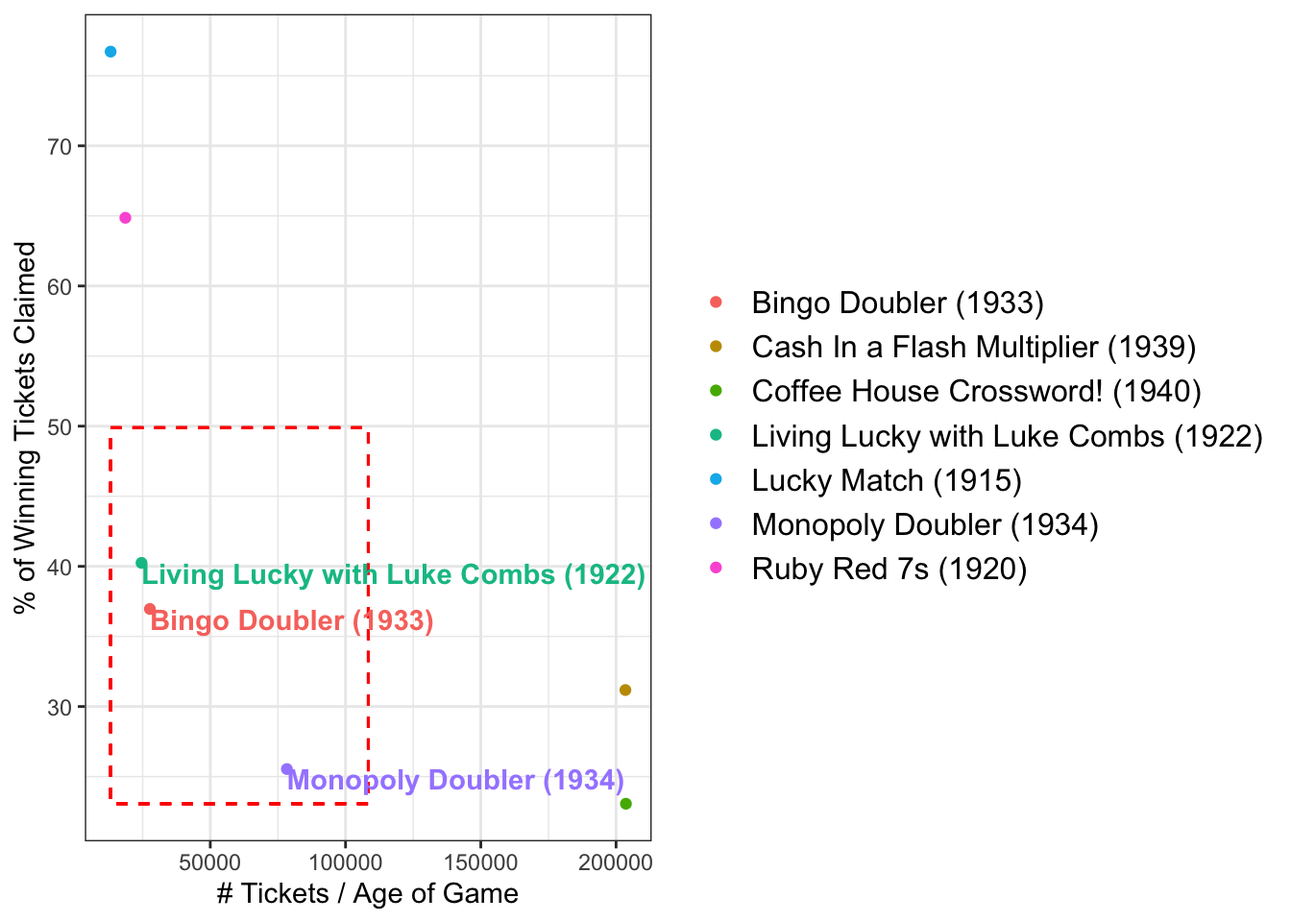
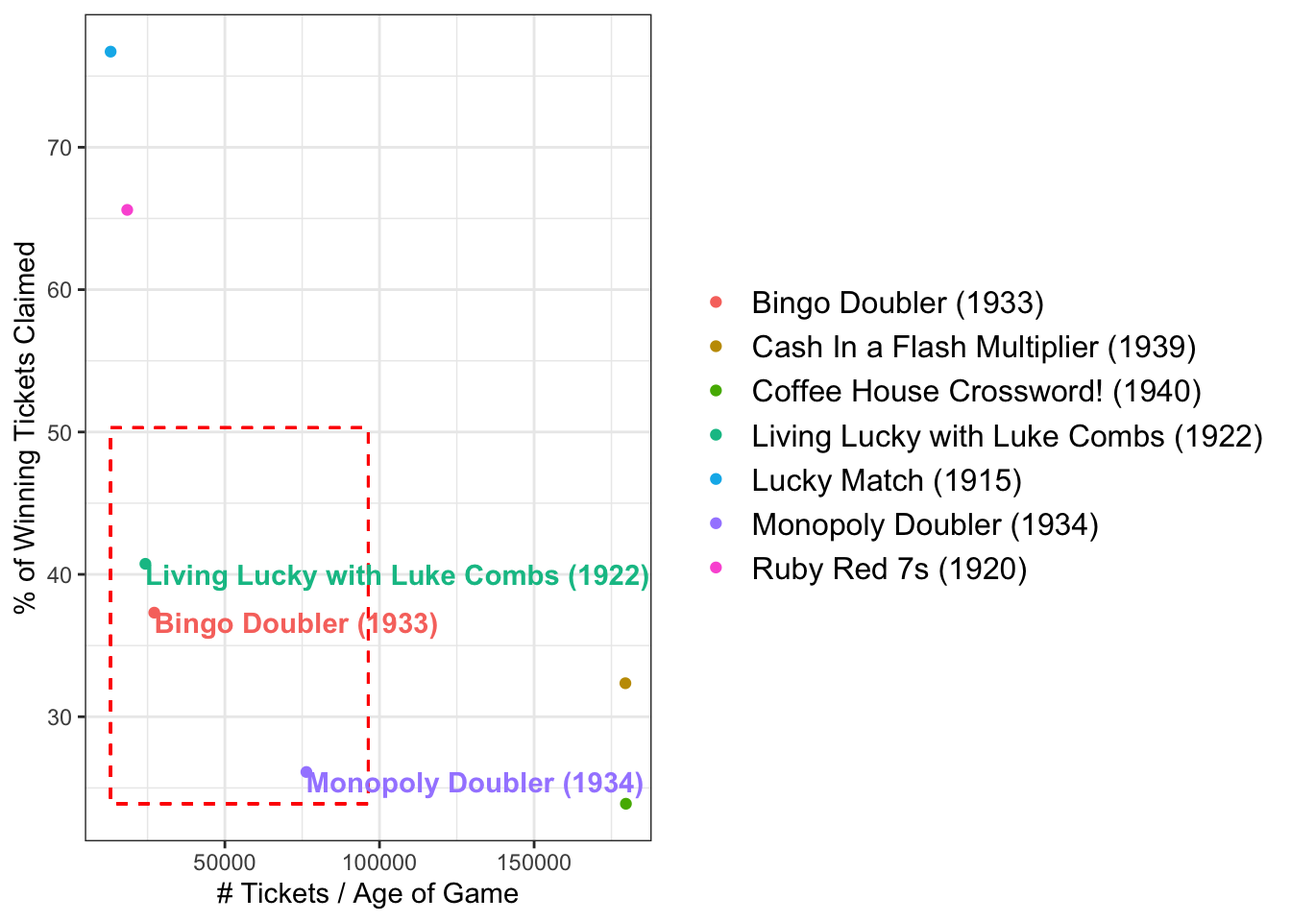
update prizes

diff --git a/docs/All_Games.html b/docs/All_Games.html
@@ -300,32 +300,32 @@ tickets &gt;$500 claimed and remaining</p>
 <div id="overall-odds" class="section level3"
 style="text-align: center">
 <h3 style="text-align: center">Overall Odds</h3>
-<div class="datatables html-widget html-fill-item-overflow-hidden html-fill-item" id="htmlwidget-68294b1f0f73f28966f4" style="width:100%;height:auto;"></div>
-<script type="application/json" data-for="htmlwidget-68294b1f0f73f28966f4">{"x":{"filter":"none","vertical":false,"data":[["1","2","3","4","5","6","7","8","9","10","11","12","13","14","15","16","17","18","19","20","21","22","23","24","25","26","27","28","29","30","31","32","33","34","35","36","37","38","39"],["$50","$50","$20","$20","$20","$20","$10","$10","$10","$10","$10","$10","$3","$5","$3","$3","$3","$5","$5","$5","$3","$3","$3","$2","$2","$5","$3","$3","$3","$5","$5","$3","$1","$1","$3","$2","$20","$5","$20"],["Ca$h (1876)","500X (1813)","Crazy Cash Crossword (1918)","Big Ol' Bens (1943)","$500,000 Payday (1848)","Money Multiplier (1932)","Mystery Box Multi Xword (1925)","$200,000 Platinum (1945)","Dig Dug (1884)","Golden Riches (1841)","Jumbo Bucks (1923)","Lucky Lines Extravaganza (1921)","Crossword Craving (1944)","Coffee House Crossword! (1940)","VIP Crossword (1924)","Lucky Duck Crossword (1899)","Pengwin Crossword (1931)","Cash In a Flash Multiplier (1939)","Lucky Match (1915)","Bingo Doubler (1933)","Treasure Hunt (1935)","Sunny Money (1907)","Lucky Hunt (1889)","Love to Win! (1938)","Winter Blast (1930)","Monopoly Doubler (1934)","Cash Card (1913)","10X Crossword (1911)","Diamond Slingo (1897)","$100,000 Makeover Money (1942)","Living Lucky with Luke Combs (1922)","Scratch Yer Booty Bingo (1909)","Quick 7s (1937)","Cool Cat (1912)","Twisted Bingo (1885)","Sascratch (1919)","Bankroll (1914)","Ruby Red 7s (1920)","$25 Million Big Blowout (1941)"],[2.89,2.89,2.93,3,3,3.01,3.13,3.15,3.18,3.18,3.24,3.3,3.5,3.52,3.52,3.52,3.53,3.6,3.6,3.63,3.64,3.66,3.66,3.69,3.69,3.72,3.72,3.72,3.73,3.76,3.76,3.76,3.78,3.79,3.83,3.87,3.96,4.31,9.48]],"container":"<table class=\"display\">\n  <thead>\n    <tr>\n      <th> <\/th>\n      <th>game_amount<\/th>\n      <th>Game<\/th>\n      <th>overall_odds<\/th>\n    <\/tr>\n  <\/thead>\n<\/table>","options":{"columnDefs":[{"className":"dt-right","targets":3},{"orderable":false,"targets":0}],"order":[],"autoWidth":false,"orderClasses":false}},"evals":[],"jsHooks":[]}</script>
+<div class="datatables html-widget html-fill-item-overflow-hidden html-fill-item" id="htmlwidget-9887985945a5488b1525" style="width:100%;height:auto;"></div>
+<script type="application/json" data-for="htmlwidget-9887985945a5488b1525">{"x":{"filter":"none","vertical":false,"data":[["1","2","3","4","5","6","7","8","9","10","11","12","13","14","15","16","17","18","19","20","21","22","23","24","25","26","27","28","29","30","31","32","33","34","35","36","37","38","39"],["$50","$50","$20","$20","$20","$20","$10","$10","$10","$10","$10","$10","$3","$5","$3","$3","$3","$5","$5","$5","$3","$3","$3","$2","$2","$5","$3","$3","$3","$5","$5","$3","$1","$1","$3","$2","$20","$5","$20"],["Ca$h (1876)","500X (1813)","Crazy Cash Crossword (1918)","Big Ol' Bens (1943)","$500,000 Payday (1848)","Money Multiplier (1932)","Mystery Box Multi Xword (1925)","$200,000 Platinum (1945)","Dig Dug (1884)","Golden Riches (1841)","Jumbo Bucks (1923)","Lucky Lines Extravaganza (1921)","Crossword Craving (1944)","Coffee House Crossword! (1940)","VIP Crossword (1924)","Lucky Duck Crossword (1899)","Pengwin Crossword (1931)","Cash In a Flash Multiplier (1939)","Lucky Match (1915)","Bingo Doubler (1933)","Treasure Hunt (1935)","Sunny Money (1907)","Lucky Hunt (1889)","Love to Win! (1938)","Winter Blast (1930)","Monopoly Doubler (1934)","Cash Card (1913)","10X Crossword (1911)","Diamond Slingo (1897)","$100,000 Makeover Money (1942)","Living Lucky with Luke Combs (1922)","Scratch Yer Booty Bingo (1909)","Quick 7s (1937)","Cool Cat (1912)","Twisted Bingo (1885)","Sascratch (1919)","Bankroll (1914)","Ruby Red 7s (1920)","$25 Million Big Blowout (1941)"],[2.89,2.89,2.93,3,3,3.01,3.13,3.15,3.18,3.18,3.24,3.3,3.5,3.52,3.52,3.52,3.53,3.6,3.6,3.63,3.64,3.66,3.66,3.69,3.69,3.72,3.72,3.72,3.73,3.76,3.76,3.76,3.78,3.79,3.83,3.87,3.96,4.31,9.48]],"container":"<table class=\"display\">\n  <thead>\n    <tr>\n      <th> <\/th>\n      <th>game_amount<\/th>\n      <th>Game<\/th>\n      <th>overall_odds<\/th>\n    <\/tr>\n  <\/thead>\n<\/table>","options":{"columnDefs":[{"className":"dt-right","targets":3},{"orderable":false,"targets":0}],"order":[],"autoWidth":false,"orderClasses":false}},"evals":[],"jsHooks":[]}</script>
 </div>
 <div id="odds-of-500-or-greater" class="section level3"
 style="text-align: center">
 <h3 style="text-align: center">Odds of $500 or Greater</h3>
-<div class="datatables html-widget html-fill-item-overflow-hidden html-fill-item" id="htmlwidget-210590f1327675232c90" style="width:100%;height:auto;"></div>
-<script type="application/json" data-for="htmlwidget-210590f1327675232c90">{"x":{"filter":"none","vertical":false,"data":[["1","2","3","4","5","6","7","8","9","10","11","12","13","14","15","16","17","18","19","20","21","22","23","24","25","26","27","28","29","30","31","32","33","34","35","36","37","38","39"],["$50","$50","$20","$20","$20","$10","$10","$20","$20","$5","$10","$5","$5","$10","$3","$20","$10","$3","$3","$3","$3","$5","$5","$5","$10","$5","$3","$3","$3","$5","$3","$3","$2","$3","$2","$3","$2","$1","$1"],["Ca$h (1876)","500X (1813)","$25 Million Big Blowout (1941)","Bankroll (1914)","Money Multiplier (1932)","Dig Dug (1884)","Mystery Box Multi Xword (1925)","$500,000 Payday (1848)","Big Ol' Bens (1943)","Bingo Doubler (1933)","Jumbo Bucks (1923)","Coffee House Crossword! (1940)","Monopoly Doubler (1934)","Lucky Lines Extravaganza (1921)","10X Crossword (1911)","Crazy Cash Crossword (1918)","Golden Riches (1841)","Cash Card (1913)","Lucky Hunt (1889)","Twisted Bingo (1885)","Scratch Yer Booty Bingo (1909)","Cash In a Flash Multiplier (1939)","Ruby Red 7s (1920)","$100,000 Makeover Money (1942)","$200,000 Platinum (1945)","Living Lucky with Luke Combs (1922)","Treasure Hunt (1935)","Sunny Money (1907)","Pengwin Crossword (1931)","Lucky Match (1915)","Lucky Duck Crossword (1899)","VIP Crossword (1924)","Love to Win! (1938)","Crossword Craving (1944)","Winter Blast (1930)","Diamond Slingo (1897)","Sascratch (1919)","Cool Cat (1912)","Quick 7s (1937)"],[256,265,372,1457,1757,2385,3327,3363,3392,3431,3800,5032,5065,5556,5729,6189,6507,7302,7327,8603,8941,8976,9006,9524,10022,10259,10747,11363,11622,11658,13004,15650,21928,23721,34074,53153,88046,651767,651867]],"container":"<table class=\"display\">\n  <thead>\n    <tr>\n      <th> <\/th>\n      <th>game_amount<\/th>\n      <th>Game<\/th>\n      <th>odds_500<\/th>\n    <\/tr>\n  <\/thead>\n<\/table>","options":{"columnDefs":[{"className":"dt-right","targets":3},{"orderable":false,"targets":0}],"order":[],"autoWidth":false,"orderClasses":false}},"evals":[],"jsHooks":[]}</script>
+<div class="datatables html-widget html-fill-item-overflow-hidden html-fill-item" id="htmlwidget-870efa869a294fdaf469" style="width:100%;height:auto;"></div>
+<script type="application/json" data-for="htmlwidget-870efa869a294fdaf469">{"x":{"filter":"none","vertical":false,"data":[["1","2","3","4","5","6","7","8","9","10","11","12","13","14","15","16","17","18","19","20","21","22","23","24","25","26","27","28","29","30","31","32","33","34","35","36","37","38","39"],["$50","$50","$20","$20","$20","$10","$10","$20","$20","$5","$10","$5","$5","$10","$3","$20","$10","$3","$3","$3","$3","$5","$5","$5","$10","$5","$3","$3","$3","$5","$3","$3","$2","$3","$2","$3","$2","$1","$1"],["Ca$h (1876)","500X (1813)","$25 Million Big Blowout (1941)","Bankroll (1914)","Money Multiplier (1932)","Dig Dug (1884)","Mystery Box Multi Xword (1925)","$500,000 Payday (1848)","Big Ol' Bens (1943)","Bingo Doubler (1933)","Jumbo Bucks (1923)","Coffee House Crossword! (1940)","Monopoly Doubler (1934)","Lucky Lines Extravaganza (1921)","10X Crossword (1911)","Crazy Cash Crossword (1918)","Golden Riches (1841)","Cash Card (1913)","Lucky Hunt (1889)","Twisted Bingo (1885)","Scratch Yer Booty Bingo (1909)","Cash In a Flash Multiplier (1939)","Ruby Red 7s (1920)","$100,000 Makeover Money (1942)","$200,000 Platinum (1945)","Living Lucky with Luke Combs (1922)","Treasure Hunt (1935)","Sunny Money (1907)","Pengwin Crossword (1931)","Lucky Match (1915)","Lucky Duck Crossword (1899)","VIP Crossword (1924)","Love to Win! (1938)","Crossword Craving (1944)","Winter Blast (1930)","Diamond Slingo (1897)","Sascratch (1919)","Cool Cat (1912)","Quick 7s (1937)"],[256,265,372,1457,1757,2385,3327,3363,3392,3431,3800,5032,5065,5556,5729,6189,6507,7302,7327,8603,8941,8976,9006,9524,10022,10259,10747,11363,11622,11658,13004,15650,21928,23721,34074,53153,88046,651767,651867]],"container":"<table class=\"display\">\n  <thead>\n    <tr>\n      <th> <\/th>\n      <th>game_amount<\/th>\n      <th>Game<\/th>\n      <th>odds_500<\/th>\n    <\/tr>\n  <\/thead>\n<\/table>","options":{"columnDefs":[{"className":"dt-right","targets":3},{"orderable":false,"targets":0}],"order":[],"autoWidth":false,"orderClasses":false}},"evals":[],"jsHooks":[]}</script>
 </div>
 <div id="game-age" class="section level3" style="text-align: center">
 <h3 style="text-align: center">Game Age</h3>
-<div class="datatables html-widget html-fill-item-overflow-hidden html-fill-item" id="htmlwidget-b8810dc6bffe2e604e48" style="width:100%;height:auto;"></div>
-<script type="application/json" data-for="htmlwidget-b8810dc6bffe2e604e48">{"x":{"filter":"none","vertical":false,"data":[["1","2","3","4","5","6","7","8","9","10","11","12","13","14","15","16","17","18","19","20","21","22","23","24","25","26","27","28","29","30","31","32","33","34","35"],["$20","$5","$5","$2","$1","$3","$5","$5","$20","$3","$2","$10","$3","$10","$5","$10","$5","$2","$20","$5","$20","$3","$1","$3","$3","$3","$3","$3","$3","$3","$10","$50","$20","$10","$50"],["$25 Million Big Blowout (1941)","Coffee House Crossword! (1940)","Cash In a Flash Multiplier (1939)","Love to Win! (1938)","Quick 7s (1937)","Treasure Hunt (1935)","Monopoly Doubler (1934)","Bingo Doubler (1933)","Money Multiplier (1932)","Pengwin Crossword (1931)","Winter Blast (1930)","Mystery Box Multi Xword (1925)","VIP Crossword (1924)","Jumbo Bucks (1923)","Living Lucky with Luke Combs (1922)","Lucky Lines Extravaganza (1921)","Ruby Red 7s (1920)","Sascratch (1919)","Crazy Cash Crossword (1918)","Lucky Match (1915)","Bankroll (1914)","Cash Card (1913)","Cool Cat (1912)","10X Crossword (1911)","Scratch Yer Booty Bingo (1909)","Sunny Money (1907)","Lucky Duck Crossword (1899)","Diamond Slingo (1897)","Lucky Hunt (1889)","Twisted Bingo (1885)","Dig Dug (1884)","Ca$h (1876)","$500,000 Payday (1848)","Golden Riches (1841)","500X (1813)"],[15,15,15,15,78,78,78,106,106,106,106,169,169,169,169,197,197,197,197,232,232,260,260,260,288,288,351,386,442,470,470,533,750,806,1037]],"container":"<table class=\"display\">\n  <thead>\n    <tr>\n      <th> <\/th>\n      <th>game_amount<\/th>\n      <th>Game<\/th>\n      <th>game_age<\/th>\n    <\/tr>\n  <\/thead>\n<\/table>","options":{"columnDefs":[{"className":"dt-right","targets":3},{"orderable":false,"targets":0}],"order":[],"autoWidth":false,"orderClasses":false}},"evals":[],"jsHooks":[]}</script>
+<div class="datatables html-widget html-fill-item-overflow-hidden html-fill-item" id="htmlwidget-79eac0fb8d948d0e91cf" style="width:100%;height:auto;"></div>
+<script type="application/json" data-for="htmlwidget-79eac0fb8d948d0e91cf">{"x":{"filter":"none","vertical":false,"data":[["1","2","3","4","5","6","7","8","9","10","11","12","13","14","15","16","17","18","19","20","21","22","23","24","25","26","27","28","29","30","31","32","33","34","35"],["$20","$5","$5","$2","$1","$3","$5","$5","$20","$3","$2","$10","$3","$10","$5","$10","$5","$2","$20","$5","$20","$3","$1","$3","$3","$3","$3","$3","$3","$3","$10","$50","$20","$10","$50"],["$25 Million Big Blowout (1941)","Coffee House Crossword! (1940)","Cash In a Flash Multiplier (1939)","Love to Win! (1938)","Quick 7s (1937)","Treasure Hunt (1935)","Monopoly Doubler (1934)","Bingo Doubler (1933)","Money Multiplier (1932)","Pengwin Crossword (1931)","Winter Blast (1930)","Mystery Box Multi Xword (1925)","VIP Crossword (1924)","Jumbo Bucks (1923)","Living Lucky with Luke Combs (1922)","Lucky Lines Extravaganza (1921)","Ruby Red 7s (1920)","Sascratch (1919)","Crazy Cash Crossword (1918)","Lucky Match (1915)","Bankroll (1914)","Cash Card (1913)","Cool Cat (1912)","10X Crossword (1911)","Scratch Yer Booty Bingo (1909)","Sunny Money (1907)","Lucky Duck Crossword (1899)","Diamond Slingo (1897)","Lucky Hunt (1889)","Twisted Bingo (1885)","Dig Dug (1884)","Ca$h (1876)","$500,000 Payday (1848)","Golden Riches (1841)","500X (1813)"],[17,17,17,17,80,80,80,108,108,108,108,171,171,171,171,199,199,199,199,234,234,262,262,262,290,290,353,388,444,472,472,535,752,808,1039]],"container":"<table class=\"display\">\n  <thead>\n    <tr>\n      <th> <\/th>\n      <th>game_amount<\/th>\n      <th>Game<\/th>\n      <th>game_age<\/th>\n    <\/tr>\n  <\/thead>\n<\/table>","options":{"columnDefs":[{"className":"dt-right","targets":3},{"orderable":false,"targets":0}],"order":[],"autoWidth":false,"orderClasses":false}},"evals":[],"jsHooks":[]}</script>
 </div>
 <div id="number-of-tickets-in-game" class="section level3"
 style="text-align: center">
 <h3 style="text-align: center">Number of Tickets in Game</h3>
-<div class="datatables html-widget html-fill-item-overflow-hidden html-fill-item" id="htmlwidget-5676326d7a2f9f2341b3" style="width:100%;height:auto;"></div>
-<script type="application/json" data-for="htmlwidget-5676326d7a2f9f2341b3">{"x":{"filter":"none","vertical":false,"data":[["1","2","3","4","5","6","7","8","9","10","11","12","13","14","15","16","17","18","19","20","21","22","23","24","25","26","27","28","29","30","31","32","33","34","35","36","37","38","39"],["$50","$50","$20","$20","$20","$10","$20","$10","$20","$10","$10","$3","$10","$3","$2","$3","$20","$3","$5","$3","$3","$2","$2","$5","$5","$5","$3","$5","$3","$3","$3","$3","$3","$5","$10","$1","$1","$5","$5"],["500X (1813)","Ca$h (1876)","Big Ol' Bens (1943)","Bankroll (1914)","Crazy Cash Crossword (1918)","$200,000 Platinum (1945)","Money Multiplier (1932)","Jumbo Bucks (1923)","$25 Million Big Blowout (1941)","Mystery Box Multi Xword (1925)","Lucky Lines Extravaganza (1921)","Sunny Money (1907)","Dig Dug (1884)","Lucky Hunt (1889)","Winter Blast (1930)","Scratch Yer Booty Bingo (1909)","$500,000 Payday (1848)","Twisted Bingo (1885)","Bingo Doubler (1933)","Treasure Hunt (1935)","Cash Card (1913)","Sascratch (1919)","Love to Win! (1938)","Cash In a Flash Multiplier (1939)","Lucky Match (1915)","Coffee House Crossword! (1940)","Pengwin Crossword (1931)","$100,000 Makeover Money (1942)","Crossword Craving (1944)","10X Crossword (1911)","VIP Crossword (1924)","Lucky Duck Crossword (1899)","Diamond Slingo (1897)","Ruby Red 7s (1920)","Golden Riches (1841)","Cool Cat (1912)","Quick 7s (1937)","Living Lucky with Luke Combs (1922)","Monopoly Doubler (1934)"],[1216260,1221870,1465150,1465575,1466725,1954250,1955200,1956800,1958400,2073000,2200250,2318100,2439350,2901500,2930400,2932600,2932650,2933500,2933600,2934000,2935300,2993550,3048000,3051700,3054300,3054600,3056500,3057300,3060000,3179800,3302100,3303100,3614400,3665600,3904250,3910600,3911200,4154900,6108700]],"container":"<table class=\"display\">\n  <thead>\n    <tr>\n      <th> <\/th>\n      <th>game_amount<\/th>\n      <th>Game<\/th>\n      <th>no_tickets<\/th>\n    <\/tr>\n  <\/thead>\n<\/table>","options":{"columnDefs":[{"className":"dt-right","targets":3},{"orderable":false,"targets":0}],"order":[],"autoWidth":false,"orderClasses":false}},"evals":[],"jsHooks":[]}</script>
+<div class="datatables html-widget html-fill-item-overflow-hidden html-fill-item" id="htmlwidget-4b3e824be7053ba7adda" style="width:100%;height:auto;"></div>
+<script type="application/json" data-for="htmlwidget-4b3e824be7053ba7adda">{"x":{"filter":"none","vertical":false,"data":[["1","2","3","4","5","6","7","8","9","10","11","12","13","14","15","16","17","18","19","20","21","22","23","24","25","26","27","28","29","30","31","32","33","34","35","36","37","38","39"],["$50","$50","$20","$20","$20","$10","$20","$10","$20","$10","$10","$3","$10","$3","$2","$3","$20","$3","$5","$3","$3","$2","$2","$5","$5","$5","$3","$5","$3","$3","$3","$3","$3","$5","$10","$1","$1","$5","$5"],["500X (1813)","Ca$h (1876)","Big Ol' Bens (1943)","Bankroll (1914)","Crazy Cash Crossword (1918)","$200,000 Platinum (1945)","Money Multiplier (1932)","Jumbo Bucks (1923)","$25 Million Big Blowout (1941)","Mystery Box Multi Xword (1925)","Lucky Lines Extravaganza (1921)","Sunny Money (1907)","Dig Dug (1884)","Lucky Hunt (1889)","Winter Blast (1930)","Scratch Yer Booty Bingo (1909)","$500,000 Payday (1848)","Twisted Bingo (1885)","Bingo Doubler (1933)","Treasure Hunt (1935)","Cash Card (1913)","Sascratch (1919)","Love to Win! (1938)","Cash In a Flash Multiplier (1939)","Lucky Match (1915)","Coffee House Crossword! (1940)","Pengwin Crossword (1931)","$100,000 Makeover Money (1942)","Crossword Craving (1944)","10X Crossword (1911)","VIP Crossword (1924)","Lucky Duck Crossword (1899)","Diamond Slingo (1897)","Ruby Red 7s (1920)","Golden Riches (1841)","Cool Cat (1912)","Quick 7s (1937)","Living Lucky with Luke Combs (1922)","Monopoly Doubler (1934)"],[1216260,1221870,1465150,1465575,1466725,1954250,1955200,1956800,1958400,2073000,2200250,2318100,2439350,2901500,2930400,2932600,2932650,2933500,2933600,2934000,2935300,2993550,3048000,3051700,3054300,3054600,3056500,3057300,3060000,3179800,3302100,3303100,3614400,3665600,3904250,3910600,3911200,4154900,6108700]],"container":"<table class=\"display\">\n  <thead>\n    <tr>\n      <th> <\/th>\n      <th>game_amount<\/th>\n      <th>Game<\/th>\n      <th>no_tickets<\/th>\n    <\/tr>\n  <\/thead>\n<\/table>","options":{"columnDefs":[{"className":"dt-right","targets":3},{"orderable":false,"targets":0}],"order":[],"autoWidth":false,"orderClasses":false}},"evals":[],"jsHooks":[]}</script>
 </div>
 <div id="of-winning-tickets-500-claimed" class="section level3"
 style="text-align: center">
 <h3 style="text-align: center">% of Winning Tickets &gt;$500
 Claimed</h3>
-<div class="datatables html-widget html-fill-item-overflow-hidden html-fill-item" id="htmlwidget-192fe17e812aa5f4a6b6" style="width:100%;height:auto;"></div>
-<script type="application/json" data-for="htmlwidget-192fe17e812aa5f4a6b6">{"x":{"filter":"none","vertical":false,"data":[["1","2","3","4","5","6","7","8","9","10","11","12","13","14","15","16","17","18","19","20","21","22","23","24","25","26","27","28","29","30","31","32","33","34","35","36","37","38","39","40","41","42","43","44","45","46","47","48","49","50","51","52","53","54","55","56","57","58","59","60","61","62","63","64","65","66","67","68","69","70","71","72","73","74","75","76","77","78","79","80","81","82","83","84","85","86","87","88","89","90","91","92","93","94","95","96","97","98","99","100","101","102","103","104","105","106","107","108","109","110","111","112","113","114","115","116","117","118","119","120","121","122","123","124","125","126","127","128","129","130","131","132","133","134","135","136","137","138","139","140","141","142","143","144","145","146","147","148","149","150","151","152","153","154","155","156","157","158","159","160","161","162","163","164"],["$20","$20","$5","$10","$5","$20","$3","$5","$10","$5","$20","$20","$5","$10","$20","$5","$20","$5","$3","$5","$5","$5","$5","$5","$20","$5","$5","$10","$20","$5","$5","$5","$5","$2","$2","$2","$20","$5","$20","$20","$1","$3","$20","$2","$5","$5","$20","$3","$3","$3","$5","$5","$20","$3","$2","$3","$3","$3","$10","$5","$5","$3","$20","$5","$20","$5","$5","$5","$20","$3","$2","$20","$5","$3","$3","$3","$3","$10","$20","$10","$3","$10","$3","$3","$2","$3","$3","$5","$10","$3","$10","$5","$3","$3","$3","$3","$10","$10","$5","$3","$5","$20","$3","$50","$3","$3","$2","$10","$20","$20","$3","$10","$10","$3","$5","$2","$50","$10","$50","$20","$5","$50","$20","$20","$50","$10","$50","$5","$50","$10","$10","$20","$3","$50","$50","$10","$3","$5","$10","$3","$20","$3","$3","$20","$10","$20","$10","$1","$3","$20","$20","$50","$50","$3","$20","$50","$50","$50","$50","$20","$50","$50","$50","$3"],["Big Ol' Bens (1943)","Big Ol' Bens (1943)","$100,000 Makeover Money (1942)","$200,000 Platinum (1945)","$100,000 Makeover Money (1942)","Big Ol' Bens (1943)","Crossword Craving (1944)","$100,000 Makeover Money (1942)","$200,000 Platinum (1945)","$100,000 Makeover Money (1942)","Big Ol' Bens (1943)","Big Ol' Bens (1943)","$100,000 Makeover Money (1942)","$200,000 Platinum (1945)","Big Ol' Bens (1943)","Coffee House Crossword! (1940)","$25 Million Big Blowout (1941)","Monopoly Doubler (1934)","Crossword Craving (1944)","Coffee House Crossword! (1940)","Coffee House Crossword! (1940)","Bingo Doubler (1933)","Monopoly Doubler (1934)","Monopoly Doubler (1934)","Money Multiplier (1932)","Coffee House Crossword! (1940)","Cash In a Flash Multiplier (1939)","$200,000 Platinum (1945)","Big Ol' Bens (1943)","Cash In a Flash Multiplier (1939)","Monopoly Doubler (1934)","Bingo Doubler (1933)","Monopoly Doubler (1934)","Love to Win! (1938)","Love to Win! (1938)","Love to Win! (1938)","Money Multiplier (1932)","Cash In a Flash Multiplier (1939)","Money Multiplier (1932)","Money Multiplier (1932)","Quick 7s (1937)","Treasure Hunt (1935)","Money Multiplier (1932)","Winter Blast (1930)","Living Lucky with Luke Combs (1922)","Living Lucky with Luke Combs (1922)","Crazy Cash Crossword (1918)","Treasure Hunt (1935)","Cash Card (1913)","Cash Card (1913)","Coffee House Crossword! (1940)","Bingo Doubler (1933)","Money Multiplier (1932)","Pengwin Crossword (1931)","Sascratch (1919)","Cash Card (1913)","Sunny Money (1907)","Lucky Hunt (1889)","Dig Dug (1884)","Living Lucky with Luke Combs (1922)","Living Lucky with Luke Combs (1922)","Pengwin Crossword (1931)","Crazy Cash Crossword (1918)","Living Lucky with Luke Combs (1922)","Crazy Cash Crossword (1918)","Cash In a Flash Multiplier (1939)","Bingo Doubler (1933)","Bingo Doubler (1933)","Money Multiplier (1932)","Pengwin Crossword (1931)","Sascratch (1919)","Crazy Cash Crossword (1918)","Lucky Match (1915)","10X Crossword (1911)","Lucky Duck Crossword (1899)","Lucky Duck Crossword (1899)","Lucky Hunt (1889)","Dig Dug (1884)","$500,000 Payday (1848)","Dig Dug (1884)","Pengwin Crossword (1931)","Dig Dug (1884)","Lucky Hunt (1889)","Scratch Yer Booty Bingo (1909)","Winter Blast (1930)","Pengwin Crossword (1931)","Sunny Money (1907)","Ruby Red 7s (1920)","Mystery Box Multi Xword (1925)","Scratch Yer Booty Bingo (1909)","Jumbo Bucks (1923)","Ruby Red 7s (1920)","Scratch Yer Booty Bingo (1909)","Sunny Money (1907)","Lucky Duck Crossword (1899)","Twisted Bingo (1885)","Jumbo Bucks (1923)","Mystery Box Multi Xword (1925)","Lucky Match (1915)","Twisted Bingo (1885)","Ruby Red 7s (1920)","$500,000 Payday (1848)","Lucky Duck Crossword (1899)","Ca$h (1876)","VIP Crossword (1924)","Pengwin Crossword (1931)","Winter Blast (1930)","Mystery Box Multi Xword (1925)","Crazy Cash Crossword (1918)","Crazy Cash Crossword (1918)","10X Crossword (1911)","Lucky Lines Extravaganza (1921)","Mystery Box Multi Xword (1925)","Twisted Bingo (1885)","Ruby Red 7s (1920)","Sascratch (1919)","Ca$h (1876)","Golden Riches (1841)","Ca$h (1876)","$500,000 Payday (1848)","Ruby Red 7s (1920)","Ca$h (1876)","$500,000 Payday (1848)","$500,000 Payday (1848)","Ca$h (1876)","Jumbo Bucks (1923)","Ca$h (1876)","Lucky Match (1915)","Ca$h (1876)","Lucky Lines Extravaganza (1921)","Lucky Lines Extravaganza (1921)","Bankroll (1914)","Lucky Duck Crossword (1899)","Ca$h (1876)","Ca$h (1876)","Lucky Lines Extravaganza (1921)","10X Crossword (1911)","Lucky Match (1915)","Golden Riches (1841)","VIP Crossword (1924)","Bankroll (1914)","Sunny Money (1907)","Lucky Hunt (1889)","$500,000 Payday (1848)","Golden Riches (1841)","Bankroll (1914)","Golden Riches (1841)","Cool Cat (1912)","Diamond Slingo (1897)","Bankroll (1914)","Bankroll (1914)","500X (1813)","500X (1813)","Diamond Slingo (1897)","$500,000 Payday (1848)","500X (1813)","500X (1813)","500X (1813)","500X (1813)","Bankroll (1914)","500X (1813)","500X (1813)","500X (1813)","Diamond Slingo (1897)"],["$25,000","$500,000","$100,000","$10,000","$1,000","$1,000","$1,000","$10,000","$500","$500","$500","$5,000","$5,000","$1,000","$2,500","$5,000","$500","$10,000","$30,000","$1,000","$100,000","$10,000","$2,500","$1,000","$5,000","$500","$1,000","$200,000","$50,000","$100,000","$100,000","$1,000","$500","$1,000","$500","$10,000","$1,000","$500","$2,500","$500","$7,000","$30,000","$500,000","$10,000","$1,000","$100,000","$300,000","$1,000","$1,000","$500","$10,000","$500","$50,000","$25,000","$15,000","$25,000","$1,000","$1,500","$200,000","$500","$10,000","$1,000","$5,000","$5,000","$500","$10,000","$5,000","$100,000","$25,000","$5,000","$1,000","$1,000","$100,000","$20,000","$5,000","$25,000","$1,000","$10,000","$500,000","$500","$500","$1,000","$500","$500","$500","$1,500","$500","$17,777","$1,000","$1,000","$200,000","$77,777","$25,000","$1,500","$1,000","$25,000","$1,000","$10,000","$10,000","$500","$500","$2,500","$500","$25,000","$1,000","$10,000","$1,000","$200,000","$10,000","$20,000","$1,000","$500","$500","$1,000","$777","$500","$100,000","$200,000","$2,500","$500","$1,777","$10,000","$1,000","$5,000","$1,000","$500","$2,000","$1,000","$500","$3,000","$200,000","$50,000","$10,000","$20,000","$5,000","$1,000","$500","$500","$10,000","$30,000","$25,000","$30,000","$30,000","$25,000","$500","$1,000","$1,000","$5,000","$1,000","$500","$2,500","$2,000","$25,000","$3,000","$50,000","$1,000","$2,500","$500","$10,000","$5,000","$20,000","$100,000","$5,000","$30,000"],[0,0,0,1,3,4,9,1,7,21,29,2,1,8,4,3,933,3,1,11,1,1,8,57,8,121,4,1,1,1,2,3,238,10,27,3,178,97,16,143,2,2,1,3,16,2,1,91,7,136,4,308,3,2,2,2,4,4,2,131,5,3,4,9,94,4,2,2,3,3,3,6,2,2,4,3,4,11,3,462,120,41,192,134,36,4,104,7,77,43,3,3,3,6,6,3,8,5,5,176,212,39,148,33,136,2,8,2,4,4,4,226,326,41,25,16,70,7,65,444,17,105,87,29,834,361,35,11,2327,12,3,15,3,15,53,29,418,183,35,4,8,4,4,8,321,74,124,5,25,677,38,43,43,20,7,1010,88,2563,134,27,18,90,73,14],[5,3,4,26,55,56,115,12,82,215,281,18,9,67,26,14,4334,13,4,44,4,4,30,193,27,398,13,3,3,3,6,9,656,25,67,7,402,214,34,288,4,4,2,6,32,4,2,176,13,241,7,522,5,3,3,3,6,6,3,188,7,4,5,11,107,4,2,2,3,3,3,6,2,2,4,3,4,11,3,454,115,39,181,117,29,3,75,5,53,29,2,2,2,4,4,2,5,3,3,100,118,21,78,17,70,1,4,1,2,2,2,112,156,19,11,7,30,3,27,184,7,40,33,11,316,136,13,4,780,4,1,5,1,5,17,9,127,52,9,1,2,1,1,2,75,16,26,1,5,134,7,7,7,3,1,140,12,322,16,3,2,10,7,1],["0%","0%","0%","3.7%","5.2%","6.7%","7.3%","7.7%","7.9%","8.9%","9.4%","10%","10%","10.7%","13.3%","17.6%","17.7%","18.8%","20%","20%","20%","20%","21.1%","22.8%","22.9%","23.3%","23.5%","25%","25%","25%","25%","25%","26.6%","28.6%","28.7%","30%","30.7%","31.2%","32%","33.2%","33.3%","33.3%","33.3%","33.3%","33.3%","33.3%","33.3%","34.1%","35%","36.1%","36.4%","37.1%","37.5%","40%","40%","40%","40%","40%","40%","41.1%","41.7%","42.9%","44.4%","45%","46.8%","50%","50%","50%","50%","50%","50%","50%","50%","50%","50%","50%","50%","50%","50%","50.4%","51.1%","51.2%","51.5%","53.4%","55.4%","57.1%","58.1%","58.3%","59.2%","59.7%","60%","60%","60%","60%","60%","60%","61.5%","62.5%","62.5%","63.8%","64.2%","65%","65.5%","66%","66%","66.7%","66.7%","66.7%","66.7%","66.7%","66.7%","66.9%","67.6%","68.3%","69.4%","69.6%","70%","70%","70.7%","70.7%","70.8%","72.4%","72.5%","72.5%","72.5%","72.6%","72.9%","73.3%","74.9%","75%","75%","75%","75%","75%","75.7%","76.3%","76.7%","77.9%","79.5%","80%","80%","80%","80%","80%","81.1%","82.2%","82.7%","83.3%","83.3%","83.5%","84.4%","86%","86%","87%","87.5%","87.8%","88%","88.8%","89.3%","90%","90%","90%","91.2%","93.3%"]],"container":"<table class=\"display\">\n  <thead>\n    <tr>\n      <th> <\/th>\n      <th>game_amount<\/th>\n      <th>Game<\/th>\n      <th>Prize<\/th>\n      <th>Claimed<\/th>\n      <th>Remaining<\/th>\n      <th>% Claimed<\/th>\n    <\/tr>\n  <\/thead>\n<\/table>","options":{"columnDefs":[{"className":"dt-right","targets":[4,5]},{"orderable":false,"targets":0}],"order":[],"autoWidth":false,"orderClasses":false}},"evals":[],"jsHooks":[]}</script>
+<div class="datatables html-widget html-fill-item-overflow-hidden html-fill-item" id="htmlwidget-8eb302f74d209dd0b481" style="width:100%;height:auto;"></div>
+<script type="application/json" data-for="htmlwidget-8eb302f74d209dd0b481">{"x":{"filter":"none","vertical":false,"data":[["1","2","3","4","5","6","7","8","9","10","11","12","13","14","15","16","17","18","19","20","21","22","23","24","25","26","27","28","29","30","31","32","33","34","35","36","37","38","39","40","41","42","43","44","45","46","47","48","49","50","51","52","53","54","55","56","57","58","59","60","61","62","63","64","65","66","67","68","69","70","71","72","73","74","75","76","77","78","79","80","81","82","83","84","85","86","87","88","89","90","91","92","93","94","95","96","97","98","99","100","101","102","103","104","105","106","107","108","109","110","111","112","113","114","115","116","117","118","119","120","121","122","123","124","125","126","127","128","129","130","131","132","133","134","135","136","137","138","139","140","141","142","143","144","145","146","147","148","149","150","151","152","153","154","155","156","157","158","159","160","161","162","163","164"],["$20","$5","$10","$20","$5","$3","$5","$10","$5","$5","$20","$10","$20","$20","$5","$20","$3","$20","$5","$5","$5","$5","$5","$5","$10","$20","$5","$5","$5","$20","$5","$2","$5","$2","$2","$20","$20","$5","$1","$3","$5","$20","$2","$5","$20","$20","$3","$3","$5","$3","$5","$5","$20","$3","$2","$3","$3","$3","$10","$5","$5","$3","$20","$5","$20","$5","$5","$5","$20","$3","$2","$20","$5","$3","$3","$3","$3","$10","$20","$10","$10","$3","$3","$3","$2","$3","$3","$5","$3","$10","$10","$5","$3","$3","$3","$3","$10","$10","$5","$3","$20","$5","$3","$50","$3","$10","$20","$20","$3","$10","$3","$10","$3","$5","$2","$50","$10","$50","$20","$5","$50","$20","$20","$50","$50","$10","$5","$2","$10","$10","$20","$3","$50","$50","$10","$3","$50","$5","$10","$3","$20","$3","$3","$20","$10","$20","$10","$1","$3","$20","$20","$50","$50","$3","$20","$50","$50","$50","$50","$20","$50","$50","$50","$3"],["Big Ol' Bens (1943)","$100,000 Makeover Money (1942)","$200,000 Platinum (1945)","Big Ol' Bens (1943)","$100,000 Makeover Money (1942)","Crossword Craving (1944)","$100,000 Makeover Money (1942)","$200,000 Platinum (1945)","$100,000 Makeover Money (1942)","$100,000 Makeover Money (1942)","Big Ol' Bens (1943)","$200,000 Platinum (1945)","Big Ol' Bens (1943)","Big Ol' Bens (1943)","Coffee House Crossword! (1940)","$25 Million Big Blowout (1941)","Crossword Craving (1944)","Big Ol' Bens (1943)","Coffee House Crossword! (1940)","Bingo Doubler (1933)","Monopoly Doubler (1934)","Coffee House Crossword! (1940)","Coffee House Crossword! (1940)","Monopoly Doubler (1934)","$200,000 Platinum (1945)","Big Ol' Bens (1943)","Cash In a Flash Multiplier (1939)","Monopoly Doubler (1934)","Monopoly Doubler (1934)","Money Multiplier (1932)","Monopoly Doubler (1934)","Love to Win! (1938)","Cash In a Flash Multiplier (1939)","Love to Win! (1938)","Love to Win! (1938)","Money Multiplier (1932)","Money Multiplier (1932)","Cash In a Flash Multiplier (1939)","Quick 7s (1937)","Treasure Hunt (1935)","Bingo Doubler (1933)","Money Multiplier (1932)","Winter Blast (1930)","Living Lucky with Luke Combs (1922)","Crazy Cash Crossword (1918)","Money Multiplier (1932)","Treasure Hunt (1935)","Cash Card (1913)","Living Lucky with Luke Combs (1922)","Cash Card (1913)","Coffee House Crossword! (1940)","Bingo Doubler (1933)","Money Multiplier (1932)","Pengwin Crossword (1931)","Sascratch (1919)","Cash Card (1913)","Sunny Money (1907)","Lucky Hunt (1889)","Dig Dug (1884)","Living Lucky with Luke Combs (1922)","Living Lucky with Luke Combs (1922)","Pengwin Crossword (1931)","Crazy Cash Crossword (1918)","Living Lucky with Luke Combs (1922)","Crazy Cash Crossword (1918)","Cash In a Flash Multiplier (1939)","Bingo Doubler (1933)","Bingo Doubler (1933)","Money Multiplier (1932)","Pengwin Crossword (1931)","Sascratch (1919)","Crazy Cash Crossword (1918)","Lucky Match (1915)","10X Crossword (1911)","Lucky Duck Crossword (1899)","Lucky Duck Crossword (1899)","Lucky Hunt (1889)","Dig Dug (1884)","$500,000 Payday (1848)","Dig Dug (1884)","Dig Dug (1884)","Lucky Hunt (1889)","Pengwin Crossword (1931)","Scratch Yer Booty Bingo (1909)","Winter Blast (1930)","Pengwin Crossword (1931)","Sunny Money (1907)","Ruby Red 7s (1920)","Scratch Yer Booty Bingo (1909)","Mystery Box Multi Xword (1925)","Jumbo Bucks (1923)","Ruby Red 7s (1920)","Scratch Yer Booty Bingo (1909)","Sunny Money (1907)","Lucky Duck Crossword (1899)","Twisted Bingo (1885)","Jumbo Bucks (1923)","Mystery Box Multi Xword (1925)","Lucky Match (1915)","Twisted Bingo (1885)","$500,000 Payday (1848)","Ruby Red 7s (1920)","Lucky Duck Crossword (1899)","Ca$h (1876)","Pengwin Crossword (1931)","Mystery Box Multi Xword (1925)","Crazy Cash Crossword (1918)","Crazy Cash Crossword (1918)","10X Crossword (1911)","Lucky Lines Extravaganza (1921)","VIP Crossword (1924)","Mystery Box Multi Xword (1925)","Twisted Bingo (1885)","Ruby Red 7s (1920)","Sascratch (1919)","Ca$h (1876)","Golden Riches (1841)","Ca$h (1876)","$500,000 Payday (1848)","Ruby Red 7s (1920)","Ca$h (1876)","$500,000 Payday (1848)","$500,000 Payday (1848)","Ca$h (1876)","Ca$h (1876)","Jumbo Bucks (1923)","Lucky Match (1915)","Winter Blast (1930)","Lucky Lines Extravaganza (1921)","Lucky Lines Extravaganza (1921)","Bankroll (1914)","Lucky Duck Crossword (1899)","Ca$h (1876)","Ca$h (1876)","Lucky Lines Extravaganza (1921)","10X Crossword (1911)","Ca$h (1876)","Lucky Match (1915)","Golden Riches (1841)","VIP Crossword (1924)","Bankroll (1914)","Sunny Money (1907)","Lucky Hunt (1889)","$500,000 Payday (1848)","Golden Riches (1841)","Bankroll (1914)","Golden Riches (1841)","Cool Cat (1912)","Diamond Slingo (1897)","Bankroll (1914)","Bankroll (1914)","500X (1813)","500X (1813)","Diamond Slingo (1897)","$500,000 Payday (1848)","500X (1813)","500X (1813)","500X (1813)","500X (1813)","Bankroll (1914)","500X (1813)","500X (1813)","500X (1813)","Diamond Slingo (1897)"],["$500,000","$100,000","$10,000","$1,000","$1,000","$1,000","$10,000","$500","$5,000","$500","$500","$1,000","$5,000","$2,500","$5,000","$500","$30,000","$25,000","$100,000","$10,000","$2,500","$1,000","$500","$1,000","$200,000","$50,000","$100,000","$10,000","$100,000","$5,000","$500","$1,000","$1,000","$500","$10,000","$1,000","$2,500","$500","$7,000","$30,000","$1,000","$500,000","$10,000","$100,000","$300,000","$500","$1,000","$1,000","$1,000","$500","$10,000","$500","$50,000","$25,000","$15,000","$25,000","$1,000","$1,500","$200,000","$500","$10,000","$1,000","$5,000","$5,000","$500","$10,000","$5,000","$100,000","$25,000","$5,000","$1,000","$1,000","$100,000","$20,000","$5,000","$25,000","$1,000","$10,000","$500,000","$500","$1,000","$500","$500","$500","$500","$1,500","$500","$17,777","$1,000","$1,000","$200,000","$77,777","$25,000","$1,500","$1,000","$25,000","$1,000","$10,000","$10,000","$500","$2,500","$500","$500","$25,000","$10,000","$200,000","$10,000","$20,000","$1,000","$500","$1,000","$500","$1,000","$777","$500","$100,000","$200,000","$2,500","$500","$1,777","$10,000","$1,000","$5,000","$1,000","$2,000","$500","$1,000","$1,000","$3,000","$200,000","$50,000","$10,000","$20,000","$500","$1,000","$500","$5,000","$500","$10,000","$30,000","$25,000","$30,000","$30,000","$25,000","$500","$1,000","$1,000","$5,000","$1,000","$500","$2,500","$2,000","$25,000","$3,000","$50,000","$1,000","$2,500","$500","$10,000","$5,000","$20,000","$100,000","$5,000","$30,000"],[0,0,1,4,4,9,1,8,1,24,35,9,3,5,3,964,1,1,1,1,8,12,125,61,1,1,1,4,2,9,240,10,5,28,3,179,16,100,2,2,4,1,3,2,1,144,91,7,17,136,4,310,3,2,2,2,4,4,2,132,5,3,4,9,96,4,2,2,3,3,3,6,2,2,4,3,4,11,3,462,41,192,123,134,36,4,104,7,43,78,3,3,3,6,6,3,8,5,5,176,39,215,148,33,2,2,4,4,4,229,140,328,41,25,16,70,7,65,444,17,105,87,29,838,35,364,11,9,12,3,15,3,15,2331,29,418,54,183,35,4,8,4,4,8,321,74,124,5,25,677,38,43,43,20,7,1012,88,2563,134,27,18,90,73,14],[3,4,26,56,54,115,12,81,9,212,275,66,17,25,14,4303,4,4,4,4,30,43,394,189,3,3,3,12,6,26,654,25,12,66,7,401,34,211,4,4,8,2,6,4,2,287,176,13,31,241,7,520,5,3,3,3,6,6,3,187,7,4,5,11,105,4,2,2,3,3,3,6,2,2,4,3,4,11,3,454,39,181,112,117,29,3,75,5,29,52,2,2,2,4,4,2,5,3,3,100,21,115,78,17,1,1,2,2,2,109,66,154,19,11,7,30,3,27,184,7,40,33,11,312,13,133,4,3,4,1,5,1,5,776,9,127,16,52,9,1,2,1,1,2,75,16,26,1,5,134,7,7,7,3,1,138,12,322,16,3,2,10,7,1],["0%","0%","3.7%","6.7%","6.9%","7.3%","7.7%","9%","10%","10.2%","11.3%","12%","15%","16.7%","17.6%","18.3%","20%","20%","20%","20%","21.1%","21.8%","24.1%","24.4%","25%","25%","25%","25%","25%","25.7%","26.8%","28.6%","29.4%","29.8%","30%","30.9%","32%","32.2%","33.3%","33.3%","33.3%","33.3%","33.3%","33.3%","33.3%","33.4%","34.1%","35%","35.4%","36.1%","36.4%","37.3%","37.5%","40%","40%","40%","40%","40%","40%","41.4%","41.7%","42.9%","44.4%","45%","47.8%","50%","50%","50%","50%","50%","50%","50%","50%","50%","50%","50%","50%","50%","50%","50.4%","51.2%","51.5%","52.3%","53.4%","55.4%","57.1%","58.1%","58.3%","59.7%","60%","60%","60%","60%","60%","60%","60%","61.5%","62.5%","62.5%","63.8%","65%","65.2%","65.5%","66%","66.7%","66.7%","66.7%","66.7%","66.7%","67.8%","68%","68%","68.3%","69.4%","69.6%","70%","70%","70.7%","70.7%","70.8%","72.4%","72.5%","72.5%","72.9%","72.9%","73.2%","73.3%","75%","75%","75%","75%","75%","75%","75%","76.3%","76.7%","77.1%","77.9%","79.5%","80%","80%","80%","80%","80%","81.1%","82.2%","82.7%","83.3%","83.3%","83.5%","84.4%","86%","86%","87%","87.5%","88%","88%","88.8%","89.3%","90%","90%","90%","91.2%","93.3%"]],"container":"<table class=\"display\">\n  <thead>\n    <tr>\n      <th> <\/th>\n      <th>game_amount<\/th>\n      <th>Game<\/th>\n      <th>Prize<\/th>\n      <th>Claimed<\/th>\n      <th>Remaining<\/th>\n      <th>% Claimed<\/th>\n    <\/tr>\n  <\/thead>\n<\/table>","options":{"columnDefs":[{"className":"dt-right","targets":[4,5]},{"orderable":false,"targets":0}],"order":[],"autoWidth":false,"orderClasses":false}},"evals":[],"jsHooks":[]}</script>
 </div>
 
 

diff --git a/docs/index.html b/docs/index.html
@@ -315,15 +315,15 @@ the best games to play and increase your chances of winning.</p>
 style="text-align: center">
 <h3 style="text-align: center"><u>Best Scratch-Off games to buy
 today:</u></h3>
-<div class="datatables html-widget html-fill-item-overflow-hidden html-fill-item" id="htmlwidget-0604dc20eb8903447f42" style="width:100%;height:auto;"></div>
-<script type="application/json" data-for="htmlwidget-0604dc20eb8903447f42">{"x":{"filter":"none","vertical":false,"data":[["$1","$2","$3","$5","$10","$20","$50"],["Quick 7s (1937)","Winter Blast (1930)","Cash Card (1913)","Living Lucky with Luke Combs (1922)","Mystery Box Multi Xword (1925)","Crazy Cash Crossword (1918)","500X (1813)"]],"container":"<table class=\"display\">\n  <thead>\n    <tr>\n      <th>$ Amount<\/th>\n      <th>Game<\/th>\n    <\/tr>\n  <\/thead>\n<\/table>","options":{"dom":"t","columnDefs":[{"className":"dt-center","targets":[0,1]}],"order":[],"autoWidth":false,"orderClasses":false}},"evals":[],"jsHooks":[]}</script>
+<div class="datatables html-widget html-fill-item-overflow-hidden html-fill-item" id="htmlwidget-147f6084e75db2402ad1" style="width:100%;height:auto;"></div>
+<script type="application/json" data-for="htmlwidget-147f6084e75db2402ad1">{"x":{"filter":"none","vertical":false,"data":[["$1","$2","$3","$5","$10","$20","$50"],["Quick 7s (1937)","Sascratch (1919)","Cash Card (1913)","Living Lucky with Luke Combs (1922)","Mystery Box Multi Xword (1925)","Crazy Cash Crossword (1918)","Ca$h (1876)"]],"container":"<table class=\"display\">\n  <thead>\n    <tr>\n      <th>$ Amount<\/th>\n      <th>Game<\/th>\n    <\/tr>\n  <\/thead>\n<\/table>","options":{"dom":"t","columnDefs":[{"className":"dt-center","targets":[0,1]}],"order":[],"autoWidth":false,"orderClasses":false}},"evals":[],"jsHooks":[]}</script>
 </div>
 <div id="games" class="section level3">
 <h3>$1 Games</h3>
 <hr />
 <p>The Best <strong>$1</strong> Game to play right now is
 <u><strong>Quick 7s (1937)</strong></u>. Only 33.3% of winning tickets
-have been claimed. Typically for a 78 day old game 33.6% of winners have
+have been claimed. Typically for a 80 day old game 33.7% of winners have
 been claimed.</p>
 <p><img src="index_files/figure-html/unnamed-chunk-4-1.png" width="864" style="display: block; margin: auto;" /></p>
 </div>
@@ -331,9 +331,9 @@ been claimed.</p>
 <h3>$2 Games</h3>
 <hr />
 <p>The Best <strong>$2</strong> Game to play right now is
-<u><strong>Winter Blast (1930)</strong></u>. Only 54.7% of winning
-tickets have been claimed. Typically for a 106 day old game 54.8% of
-winners have been claimed.</p>
+<u><strong>Sascratch (1919)</strong></u>. Only 61.8% of winning tickets
+have been claimed. Typically for a 199 day old game 61.6% of winners
+have been claimed.</p>
 <p><img src="index_files/figure-html/unnamed-chunk-5-1.png" width="864" style="display: block; margin: auto;" /></p>
 </div>
 <div id="games-2" class="section level3">
@@ -341,43 +341,43 @@ winners have been claimed.</p>
 <hr />
 <p>The Best <strong>$3</strong> Game to play right now is
 <u><strong>Cash Card (1913)</strong></u>. Only 36.1% of winning tickets
-have been claimed. Typically for a 260 day old game 59.8% of winners
-have been claimed.</p>
+have been claimed. Typically for a 262 day old game 60% of winners have
+been claimed.</p>
 <p><img src="index_files/figure-html/unnamed-chunk-6-1.png" width="864" style="display: block; margin: auto;" /></p>
 </div>
 <div id="games-3" class="section level3">
 <h3>$5 Games</h3>
 <hr />
 <p>The Best <strong>$5</strong> Game to play right now is
-<u><strong>Living Lucky with Luke Combs (1922)</strong></u>. Only 40.2%
-of winning tickets have been claimed. Typically for a 169 day old game
-49.1% of winners have been claimed.</p>
+<u><strong>Living Lucky with Luke Combs (1922)</strong></u>. Only 40.7%
+of winning tickets have been claimed. Typically for a 171 day old game
+49.6% of winners have been claimed.</p>
 <p><img src="index_files/figure-html/unnamed-chunk-7-1.png" width="864" style="display: block; margin: auto;" /></p>
 </div>
 <div id="games-4" class="section level3">
 <h3>$10 Games</h3>
 <hr />
 <p>The Best <strong>$10</strong> Game to play right now is
-<u><strong>Mystery Box Multi Xword (1925)</strong></u>. Only 65.8% of
-winning tickets have been claimed. Typically for a 169 day old game
-68.1% of winners have been claimed.</p>
+<u><strong>Mystery Box Multi Xword (1925)</strong></u>. Only 66.3% of
+winning tickets have been claimed. Typically for a 171 day old game
+68.4% of winners have been claimed.</p>
 <p><img src="index_files/figure-html/unnamed-chunk-8-1.png" width="864" style="display: block; margin: auto;" /></p>
 </div>
 <div id="games-5" class="section level3">
 <h3>$20 Games</h3>
 <hr />
 <p>The Best <strong>$20</strong> Game to play right now is
-<u><strong>Crazy Cash Crossword (1918)</strong></u>. Only 47.7% of
-winning tickets have been claimed. Typically for a 197 day old game
-61.4% of winners have been claimed.</p>
+<u><strong>Crazy Cash Crossword (1918)</strong></u>. Only 48.5% of
+winning tickets have been claimed. Typically for a 199 day old game
+61.7% of winners have been claimed.</p>
 <p><img src="index_files/figure-html/unnamed-chunk-9-1.png" width="864" style="display: block; margin: auto;" /></p>
 </div>
 <div id="games-6" class="section level3">
 <h3>$50 Games</h3>
 <hr />
 <p>The Best <strong>$50</strong> Game to play right now is
-<u><strong>500X (1813)</strong></u>. Only 88.6% of winning tickets have
-been claimed. Typically for a 1037 day old game 88.6% of winners have
+<u><strong>CaSh (1876)</strong></u>. Only 74.2% of winning tickets have
+been claimed. Typically for a 535 day old game 74.1% of winners have
 been claimed.</p>
 <p><img src="index_files/figure-html/unnamed-chunk-10-1.png" width="864" style="display: block; margin: auto;" /></p>
 </div>
